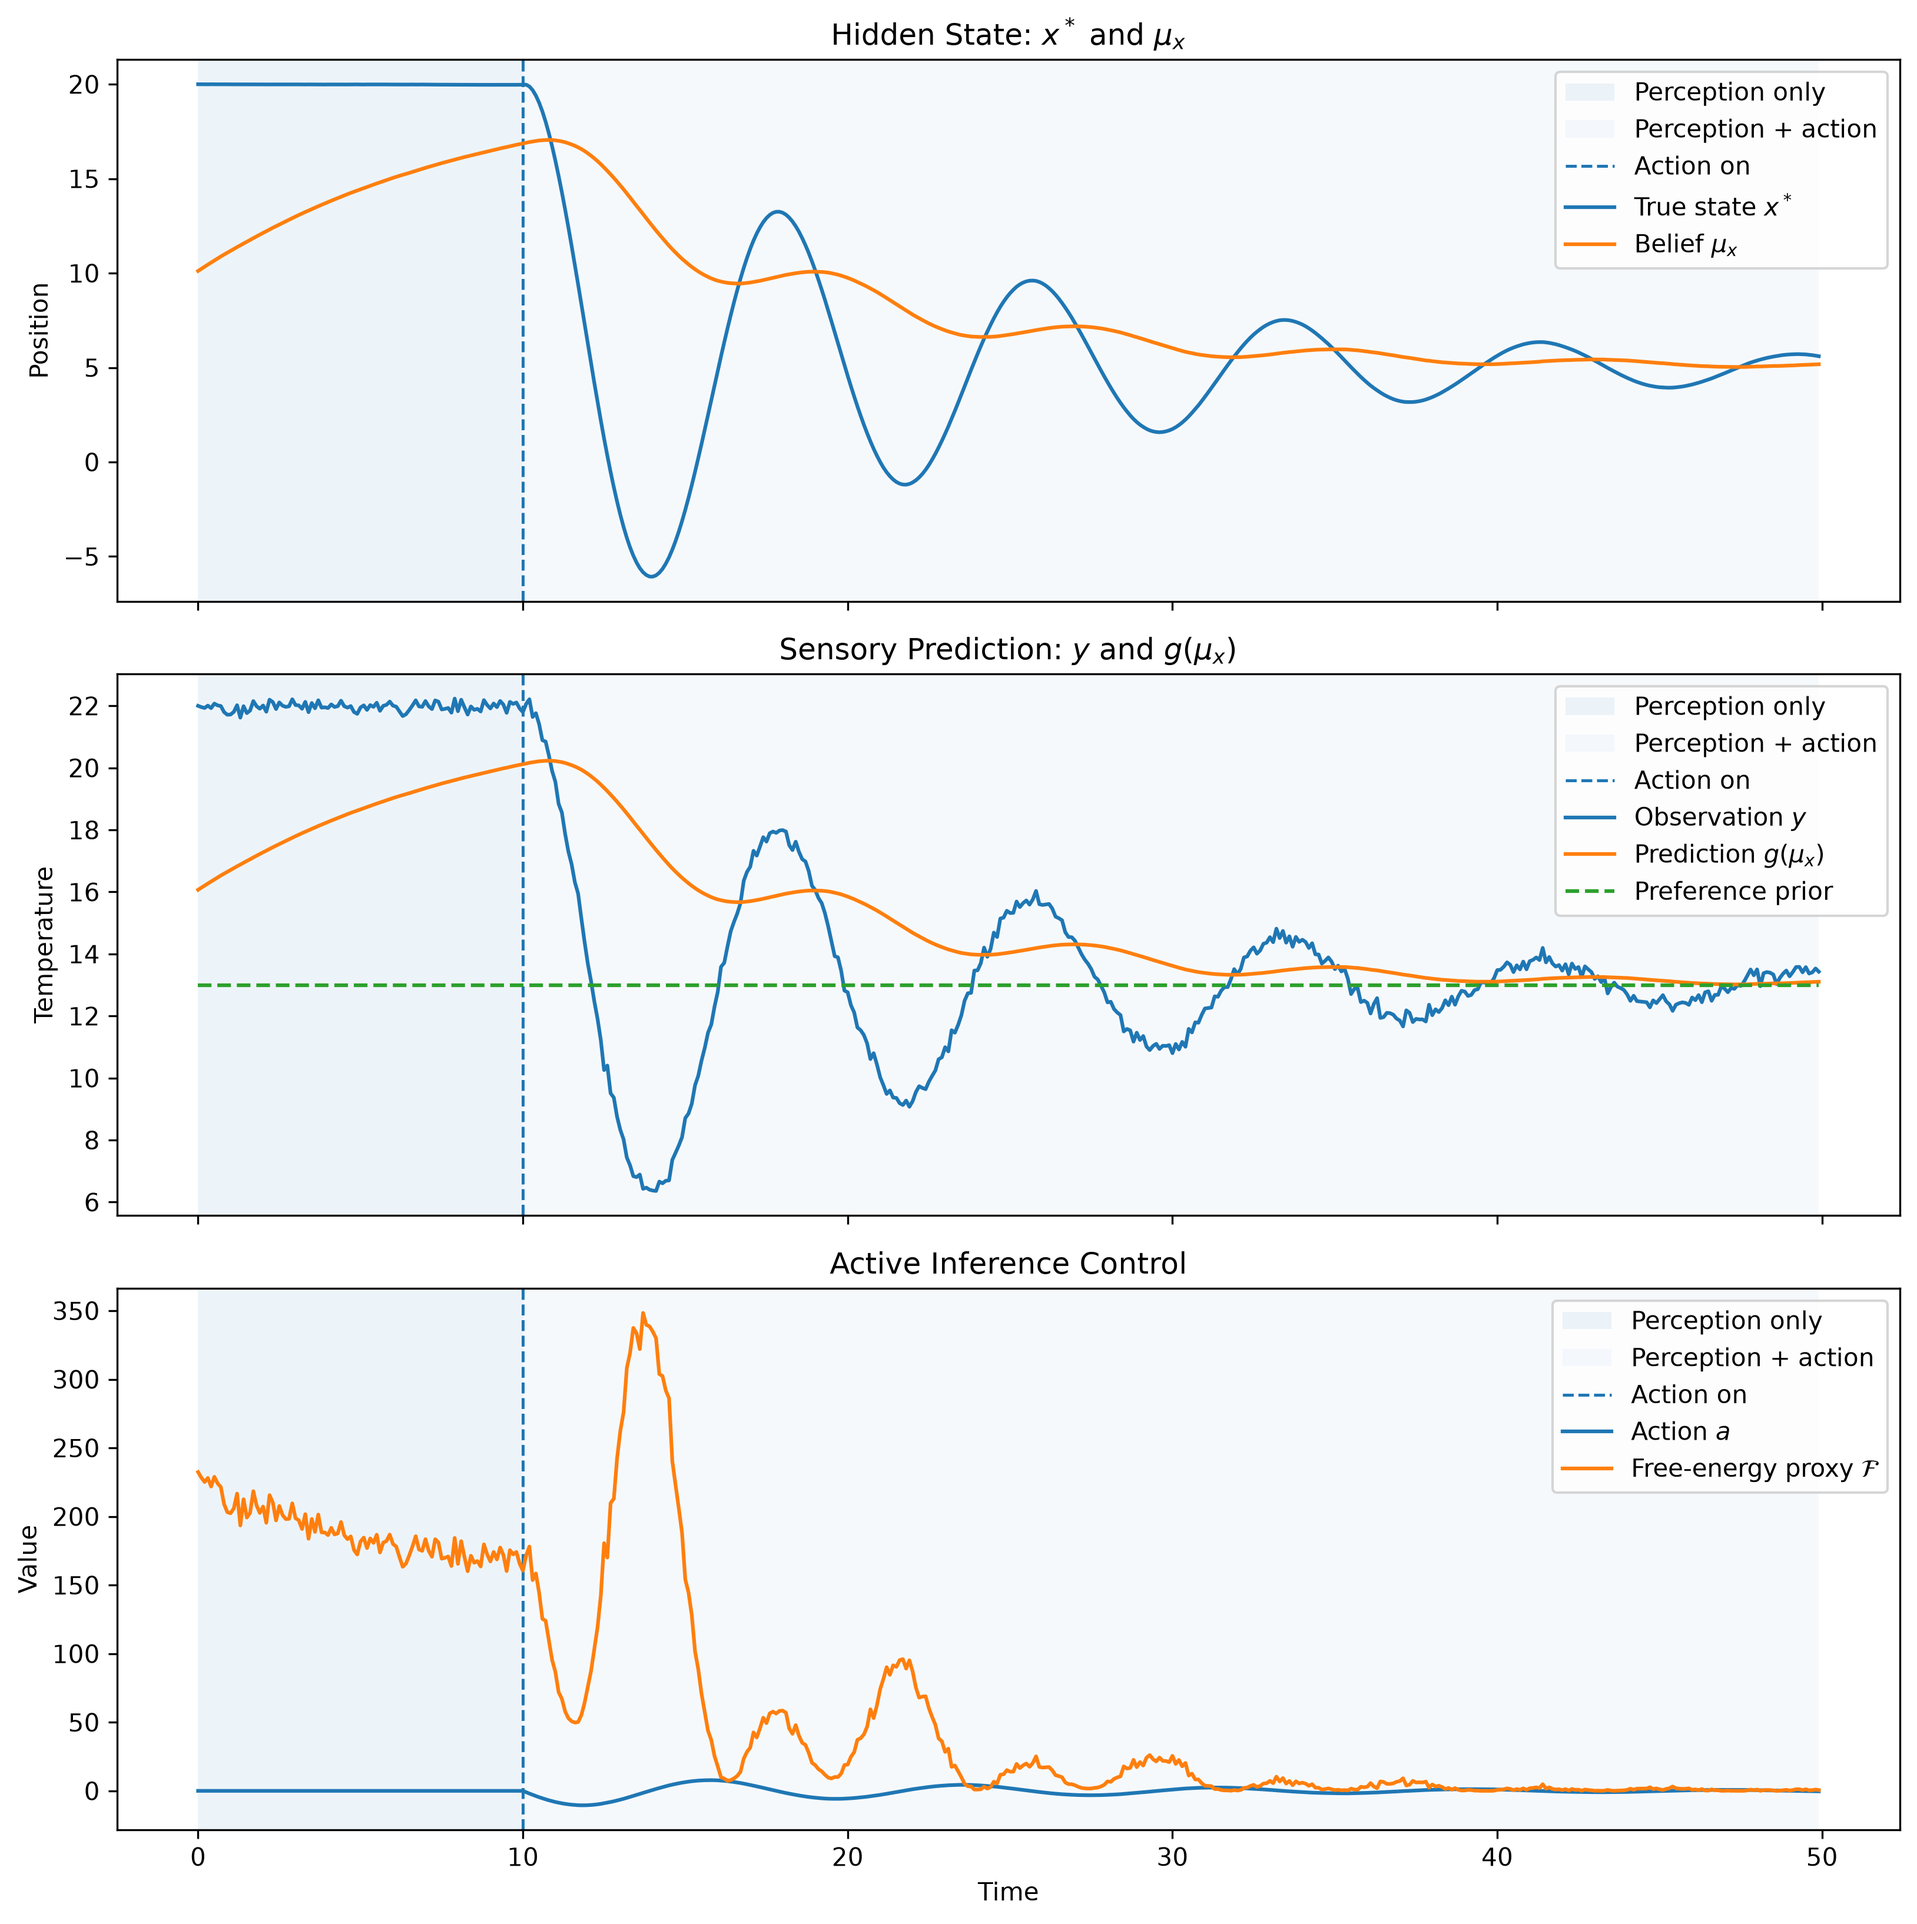
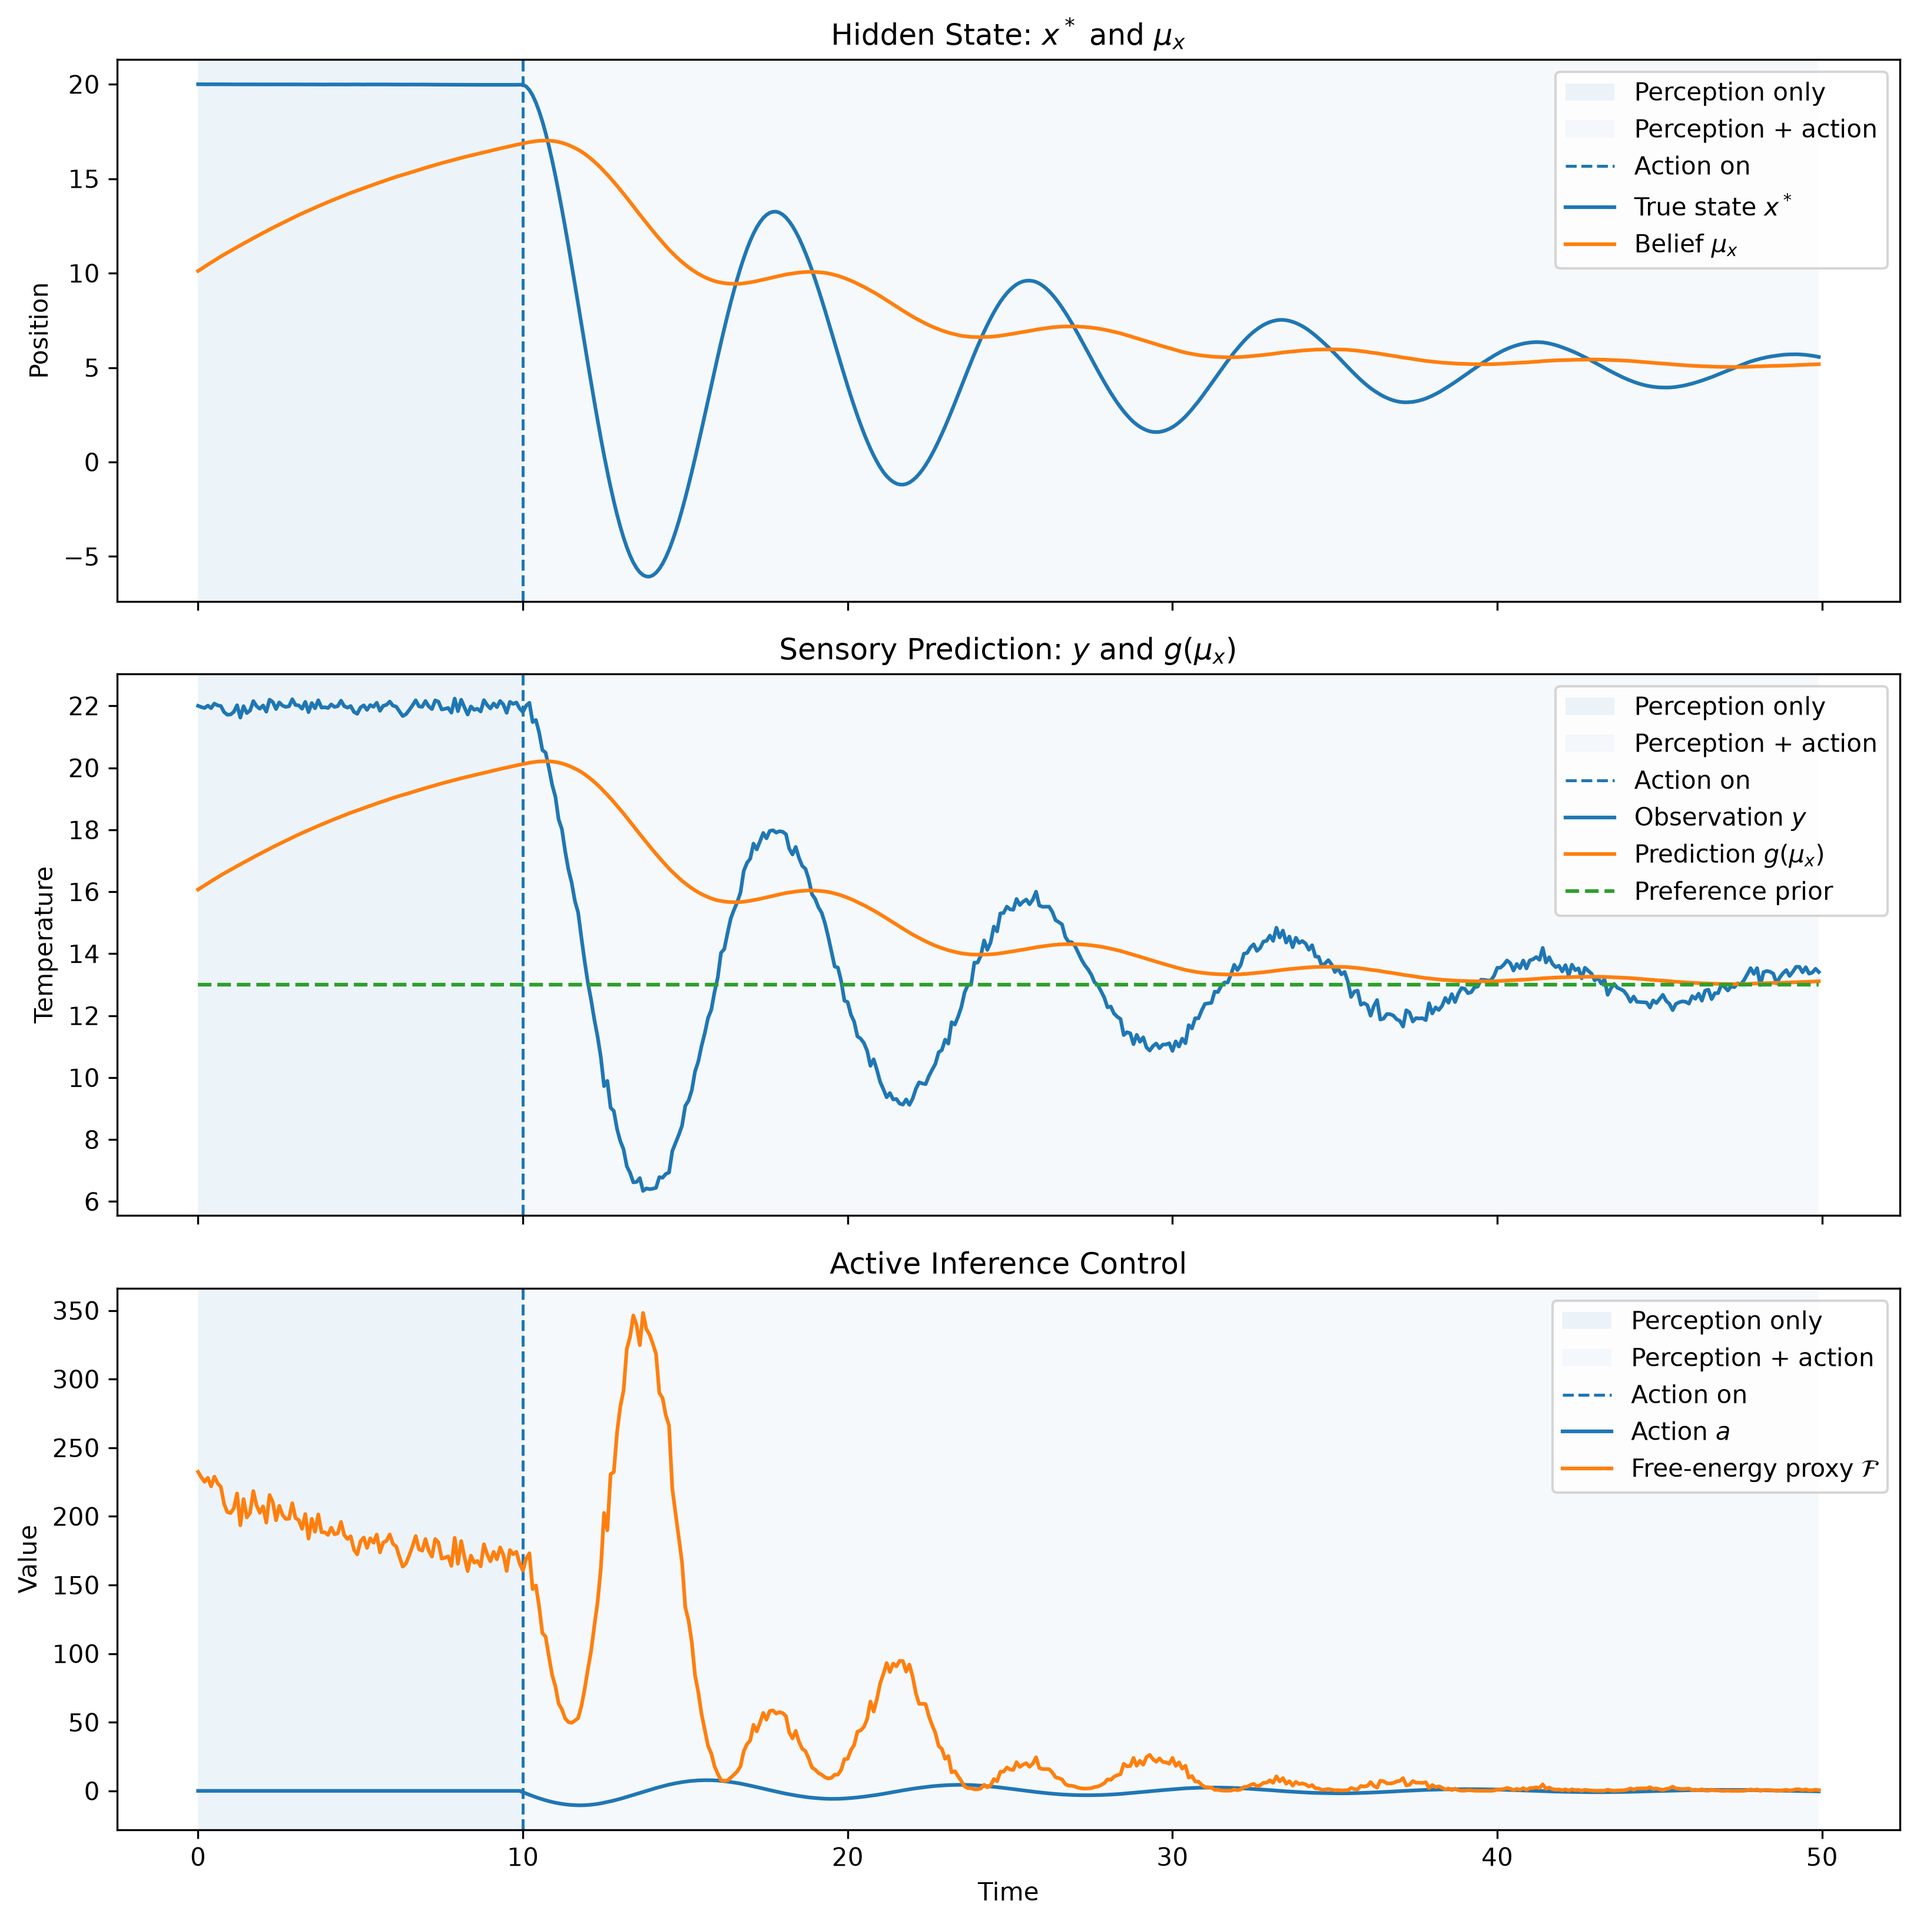
Add reproducible simulation configuration and prediction errors

diff --git a/src/aifit/simulation.py b/src/aifit/simulation.py
@@ -3,7 +3,7 @@ AIFit
 
 Chapter 7 — Active Generalized Filtering
 
-Simulation of the Bayesian Thermostat.
+Simulation of the Bayesian thermostat.
 
 Perception updates beliefs.
 Action changes the world.
@@ -15,34 +15,40 @@ from __future__ import annotations
 import numpy as np
 
 from aifit.agent import ActiveInferenceAgent
+from aifit.config import SimulationConfig
 from aifit.environment import ThermalEnvironment
 from aifit.plotting import plot_trajectory
 
 
 def run_simulation(
-    steps: int = 500,
-    dt: float = 0.1,
-    seed: int = 7,
+    config: SimulationConfig | None = None,
 ) -> dict[str, np.ndarray]:
-    """Run one Active Inference simulation.
+    """Run the Chapter 7 Active Inference simulation.
+
+    Parameters
+    ----------
+    config:
+        Reproducible simulation configuration. Default values are used
+        when no configuration is supplied.
 
     Returns
     -------
     dict[str, np.ndarray]
-        Time series of all simulated variables.
+        Time series of environmental, perceptual, and action variables.
     """
 
-    rng = np.random.default_rng(seed)
+    config = config or SimulationConfig()
+    rng = np.random.default_rng(config.seed)
 
-    # Environment: the generative process
+    # Generative process: the actual environment
     environment = ThermalEnvironment(
-        position=20.0,
+        position=config.initial_position,
     )
 
-    # Agent: the generative model
+    # Generative model: the agent's beliefs and preferences
     agent = ActiveInferenceAgent(
-        position_belief=10.0,
-        preferred_temperature=13.0,
+        position_belief=config.initial_position_belief,
+        preferred_temperature=config.preferred_temperature,
     )
 
     trajectory: dict[str, list[float]] = {
@@ -52,48 +58,55 @@ def run_simulation(
         "observation": [],
         "prediction": [],
         "preferred": [],
+        "sensory_error": [],
+        "preference_error": [],
         "action": [],
         "free_energy": [],
     }
 
-    # Main action–perception loop
-    for step in range(steps):
-        # 1. Sense the environment
+    for step in range(config.steps):
+        # 1. Sensation
         observation = environment.observe(rng)
 
-        # 2. Perception: update hidden-state beliefs
+        # Errors before belief and action are updated
+        sensory_error = agent.sensory_prediction_error(observation)
+        preference_error = agent.preference_error(observation)
+
+        # 2. Perception: change beliefs to explain sensory evidence
         agent.update_belief(
             observation,
-            dt=dt,
+            dt=config.dt,
         )
 
-        # 3. Action begins after the initial perceptual phase
-        if step > 100:
+        # 3. Action: change the world toward preferred observations
+        if step >= config.action_start_step:
             agent.update_action(
                 observation,
-                dt=dt,
+                dt=config.dt,
             )
         else:
             agent.action = 0.0
 
-        # 4. Evaluate the current prediction-error objective
+        # This remains a pedagogical proxy for now
         free_energy = agent.free_energy_proxy(observation)
 
-        # 5. Store the trajectory
-        trajectory["time"].append(step * dt)
+        # 4. Record the current trajectory
+        trajectory["time"].append(step * config.dt)
         trajectory["true_position"].append(environment.position)
         trajectory["belief"].append(agent.position_belief)
         trajectory["observation"].append(observation)
         trajectory["prediction"].append(agent.predict_temperature())
         trajectory["preferred"].append(agent.preferred_temperature)
+        trajectory["sensory_error"].append(sensory_error)
+        trajectory["preference_error"].append(preference_error)
         trajectory["action"].append(agent.action)
         trajectory["free_energy"].append(free_energy)
 
-        # 6. Apply action to the environment
+        # 5. Apply action to the generative process
         environment.step(
             action=agent.action,
             rng=rng,
-            dt=dt,
+            dt=config.dt,
         )
 
     return {
@@ -102,9 +115,16 @@ def run_simulation(
     }
 
 
-if __name__ == "__main__":
-    trajectory = run_simulation()
+def main() -> None:
+    """Run and plot the default Chapter 7 simulation."""
+    config = SimulationConfig()
+    trajectory = run_simulation(config)
+
     plot_trajectory(
         trajectory,
-        action_start_time=10.0,
+        action_start_time=config.action_start_time,
     )
+
+
+if __name__ == "__main__":
+    main()

diff --git a/tests/test_simulation.py b/tests/test_simulation.py
@@ -1,0 +1,75 @@
+"""Tests for the complete Chapter 7 simulation."""
+
+import numpy as np
+import pytest
+
+from aifit.config import SimulationConfig
+from aifit.simulation import run_simulation
+
+
+def test_simulation_returns_requested_number_of_steps() -> None:
+    config = SimulationConfig(
+        steps=50,
+        action_start_step=10,
+    )
+
+    trajectory = run_simulation(config)
+
+    for values in trajectory.values():
+        assert len(values) == 50
+
+
+def test_action_is_zero_before_action_start() -> None:
+    config = SimulationConfig(
+        steps=50,
+        action_start_step=10,
+    )
+
+    trajectory = run_simulation(config)
+
+    assert np.allclose(
+        trajectory["action"][:10],
+        0.0,
+    )
+
+
+def test_action_becomes_active_after_action_start() -> None:
+    config = SimulationConfig(
+        steps=100,
+        action_start_step=10,
+    )
+
+    trajectory = run_simulation(config)
+
+    assert np.any(
+        np.abs(trajectory["action"][10:]) > 0.0
+    )
+
+
+def test_temperature_approaches_preferred_temperature() -> None:
+    config = SimulationConfig(
+        steps=700,
+        action_start_step=100,
+    )
+
+    trajectory = run_simulation(config)
+
+    preferred = trajectory["preferred"][-1]
+
+    initial_error = abs(
+        trajectory["observation"][100] - preferred
+    )
+
+    final_error = abs(
+        np.mean(trajectory["observation"][-30:]) - preferred
+    )
+
+    assert final_error < initial_error
+
+
+def test_invalid_configuration_is_rejected() -> None:
+    with pytest.raises(ValueError):
+        SimulationConfig(
+            steps=100,
+            action_start_step=100,
+        )

diff --git a/src/aifit/config.py b/src/aifit/config.py
@@ -1,0 +1,42 @@
+"""Configuration objects for reproducible AIFit simulations."""
+
+from __future__ import annotations
+
+from dataclasses import dataclass
+
+
+@dataclass(frozen=True)
+class SimulationConfig:
+    """Configuration for the Chapter 7 Bayesian thermostat.
+
+    The frozen dataclass prevents simulation parameters from changing
+    accidentally while a simulation is running.
+    """
+
+    steps: int = 500
+    dt: float = 0.1
+    seed: int = 7
+
+    action_start_step: int = 100
+
+    initial_position: float = 20.0
+    initial_position_belief: float = 10.0
+    preferred_temperature: float = 13.0
+
+    def __post_init__(self) -> None:
+        """Validate the simulation parameters."""
+        if self.steps <= 0:
+            raise ValueError("steps must be greater than zero")
+
+        if self.dt <= 0:
+            raise ValueError("dt must be greater than zero")
+
+        if not 0 <= self.action_start_step < self.steps:
+            raise ValueError(
+                "action_start_step must be between zero and steps - 1"
+            )
+
+    @property
+    def action_start_time(self) -> float:
+        """Return the time at which action becomes active."""
+        return self.action_start_step * self.dt
